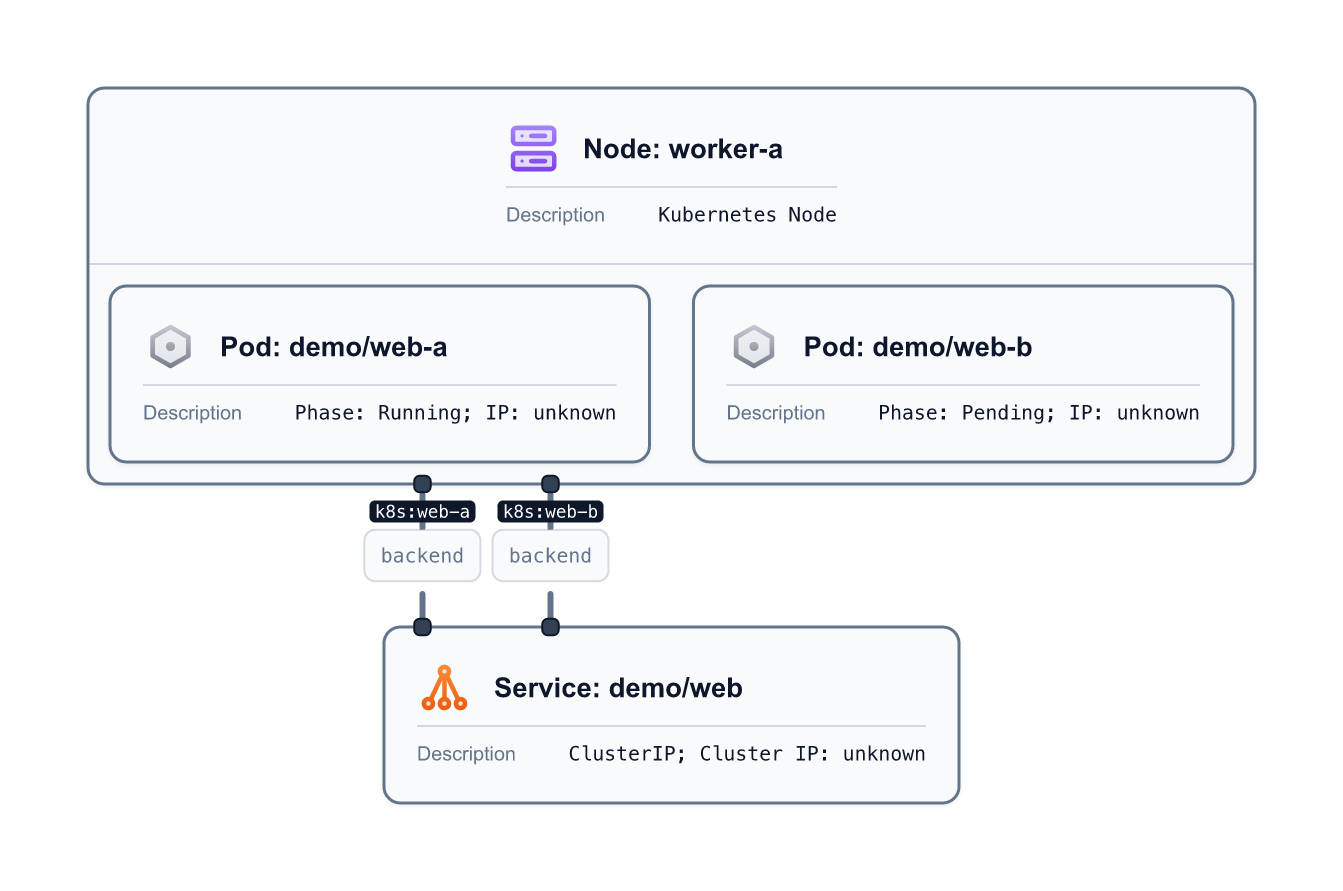
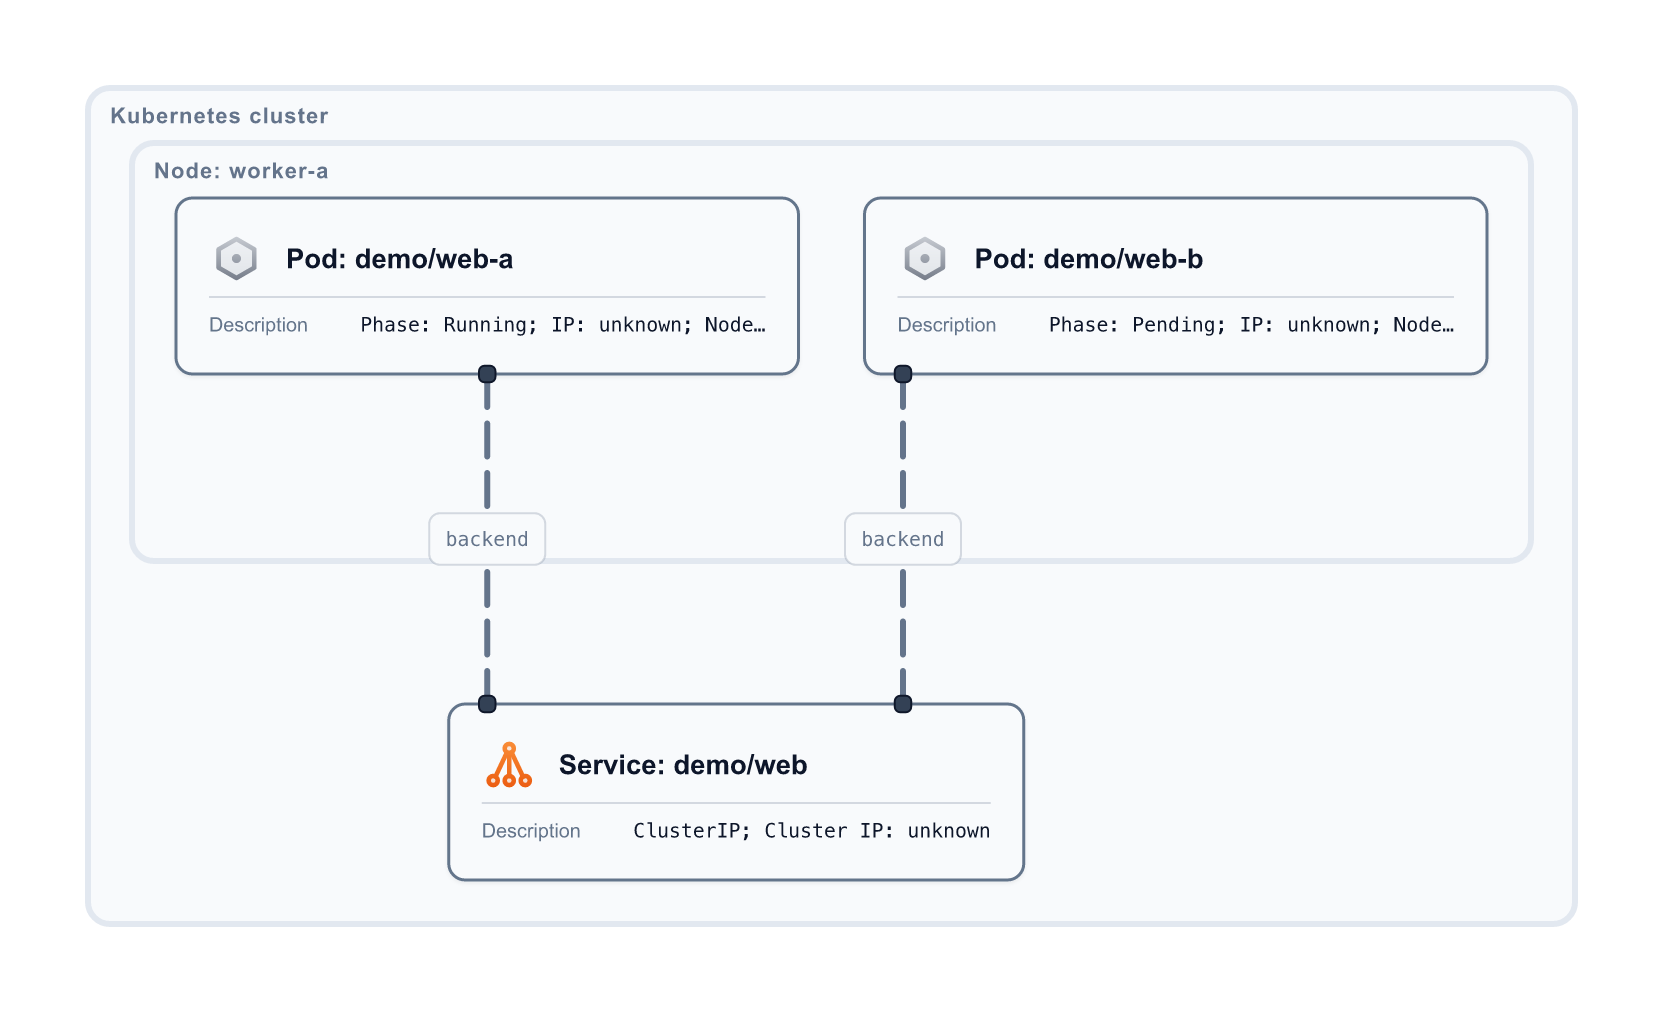
Draw Kubernetes cluster frames with direct Pod backend links

Changed region(s): [[0.0305, 0.0606, 0.9464, 0.9394], [0.6411, 0.4545, 0.8853, 0.4848], [0.0305, 0.8788, 0.0611, 0.9091]]

diff --git a/libs/plugins/kubernetes/src/topology.test.ts b/libs/plugins/kubernetes/src/topology.test.ts
@@ -1,4 +1,4 @@
-import { checkNetwork, drawNetwork, readNetworkModel } from '@shumoku/core'
+import { checkNetwork, drawNetwork, readNetworkModel, resolveNetwork } from '@shumoku/core'
 import { validateTopologyIdentityContract } from '@shumoku/core/plugin-kit'
 import { describe, expect, it } from 'vitest'
 import { testMetrics } from '../../../@shumoku/core/src/drawing/testing/support.js'
@@ -38,13 +38,13 @@ function fixture(): Inventory {
   }
 }
 describe('Kubernetes topology', () => {
-  it('represents hosting separately from virtual backend links and satisfies identity contracts', () => {
+  it('groups Pods by Node within the cluster and satisfies identity contracts', () => {
     const result = buildTopology(fixture())
     expect(checkNetwork(result.network)).toEqual([])
     expect(() =>
       drawNetwork(readNetworkModel(JSON.stringify(result.network)), { metrics: () => testMetrics }),
     ).not.toThrow()
-    expect(result.network.nodes.find((node) => node.id === 'k8s:pod-uid')?.host).toBe(
+    expect(result.network.nodes.find((node) => node.id === 'k8s:pod-uid')?.group).toBe(
       'k8s:node-uid',
     )
     expect(result.network.links).toHaveLength(1)
@@ -61,6 +61,50 @@ describe('Kubernetes topology', () => {
       nodesMissingIdentity: [],
       portsMissingName: [],
     })
+  })
+  it('draws backend wires to Pod cards after source resolution, across Node frames', () => {
+    const inventory = fixture()
+    inventory.nodes.push(resource('node-b', 'worker-b'))
+    inventory.pods.push({ ...resource('pod-b', 'web-2', 'demo'), spec: { nodeName: 'worker-b' } })
+    inventory.slices[0]?.endpoints?.push({ targetRef: { kind: 'Pod', uid: 'pod-b' } })
+    const source = buildTopology(inventory)
+    const { model } = resolveNetwork({ network: { nodes: [], links: [] } }, [
+      { sourceId: 'test-kubernetes', capturedAt: 1, status: 'ok', source },
+    ])
+    const scene = drawNetwork(model, { metrics: () => testMetrics })
+    expect(scene.groups.map(({ group }) => group.label).sort()).toEqual([
+      'Kubernetes cluster',
+      'Node: worker-a',
+      'Node: worker-b',
+    ])
+    expect(scene.wires).toHaveLength(2)
+    for (const wire of scene.wires) {
+      for (const endpoint of [wire.link.from, wire.link.to]) {
+        const card = scene.nodes.find(({ node }) => node.id === endpoint.node)
+        if (!card) throw new Error('Backend endpoint must be a visible Pod or Service card')
+        expect(card.node.label).toMatch(/^(Pod|Service):/)
+        const { x, y, width, height } = card.box
+        expect(
+          wire.points.some(
+            (point) =>
+              ((point.x === x || point.x === x + width) && point.y >= y && point.y <= y + height) ||
+              ((point.y === y || point.y === y + height) && point.x >= x && point.x <= x + width),
+          ),
+        ).toBe(true)
+      }
+    }
+    expect(scene.ports?.some((port) => port.label?.startsWith('discovered:'))).toBe(false)
+  })
+  it('keeps unscheduled and namespace-only Pods in the cluster without inventing Nodes', () => {
+    const inventory = fixture()
+    inventory.nodes = []
+    inventory.pods.push(resource('pending', 'pending', 'demo'))
+    const result = buildTopology(inventory)
+    expect(result.network.groups).toEqual([
+      { id: 'k8s:cluster', label: 'Kubernetes cluster', groups: [] },
+    ])
+    expect(result.network.nodes.every((node) => node.group === 'k8s:cluster')).toBe(true)
+    expect(result.network.links).toHaveLength(1)
   })
   it('deduplicates IPv4/IPv6 slices and preserves not-ready/terminating observations', () => {
     const inventory = fixture()

diff --git a/libs/plugins/kubernetes/src/topology.ts b/libs/plugins/kubernetes/src/topology.ts
@@ -10,28 +10,41 @@ export function buildTopology(inventory: Inventory): SourceNetwork {
     string,
     NonNullable<NonNullable<SourceNetwork['observation']>['nodes']>[string]
   > = {}
+  const clusterId = 'k8s:cluster'
   const nodeNames = new Map(inventory.nodes.map((node) => [node.metadata.name, id(node)]))
+  // Placement frames keep backend endpoints on the Pod cards. The generic host
+  // layout otherwise projects guest links onto the host's outer edge.
+  const groups: inputModel.Group[] = [
+    {
+      id: clusterId,
+      label: 'Kubernetes cluster',
+      groups: inventory.nodes.map((node) => ({
+        id: id(node),
+        label: `Node: ${node.metadata.name}`,
+      })),
+    },
+  ]
   const podsByUid = new Map(inventory.pods.map((pod) => [pod.metadata.uid, pod]))
   const services = new Map(inventory.services.map((service) => [key(service), service]))
-  const addNode = (resource: Resource, type: string, description: string, host?: string) => {
+  const addNode = (resource: Resource, type: string, description: string, group = clusterId) => {
     const namespace = resource.metadata.namespace
     nodes.push({
       id: id(resource),
       label: `${type}: ${namespace ? `${namespace}/` : ''}${resource.metadata.name}`,
-      type: type === 'Node' ? 'server' : type === 'Service' ? 'load-balancer' : 'container',
+      type: type === 'Service' ? 'load-balancer' : 'container',
       description,
-      ...(host ? { host } : {}),
+      group,
     })
     // IPs can be reused and hostNetwork Pods share their Node's IP. Do not use them
     // as device identity: the API object's UID distinguishes replacement workloads.
     observedNodes[id(resource)] = { vendorIds: { 'kubernetes-uid': resource.metadata.uid } }
   }
-  for (const node of inventory.nodes) addNode(node, 'Node', 'Kubernetes Node')
   for (const pod of inventory.pods) {
     addNode(
       pod,
       'Pod',
-      `Phase: ${pod.status?.phase ?? 'unknown'}; IP: ${pod.status?.podIP ?? 'unknown'}`,
+      `Phase: ${pod.status?.phase ?? 'unknown'}; IP: ${pod.status?.podIP ?? 'unknown'}` +
+        `; Node: ${pod.spec?.nodeName ?? 'unscheduled'}`,
       pod.spec?.nodeName ? nodeNames.get(pod.spec.nodeName) : undefined,
     )
   }
@@ -84,7 +97,8 @@ export function buildTopology(inventory: Inventory): SourceNetwork {
     }))
   return {
     network: {
-      name: 'Kubernetes configuration',
+      name: 'Kubernetes cluster',
+      groups,
       description:
         'Node placement and configured Service backends; not traffic flows or reachability.',
       nodes: nodes.sort((a, b) => a.id.localeCompare(b.id)),

diff --git a/libs/plugins/kubernetes/README.md b/libs/plugins/kubernetes/README.md
@@ -2,7 +2,10 @@
 
 The bundled `kubernetes` data source reads the API of the cluster where Shumoku
 runs. It shows Nodes, Pods, Services and Service backend membership from
-EndpointSlices. Pod placement uses the model's hosting relationship. Links are
+EndpointSlices. The diagram uses an outer **Kubernetes cluster** frame and nested **Node** frames
+for Pod placement. Services sit directly inside the cluster, and backend links
+reach individual Pod cards across the Node frames. Nodes are placement frames,
+not separate device cards; their UIDs identify the frames. Links are
 virtual, labelled **backend**, and do not claim that traffic has
 flowed or that a NetworkPolicy permits a connection. Endpoint readiness and
 termination conditions are retained in link observation metadata; no bandwidth or
@@ -105,6 +108,9 @@ References: [API access from a Pod](https://kubernetes.io/docs/tasks/run-applica
 ## Example
 
 Synthetic fixture: a Service with two backend Pods on one Node. Namespace is included
-in each resource label; Node frames show scheduling rather than namespace grouping.
+in each resource label; the cluster encloses Node frames and Services, with backend
+lines terminating on the individual Pods. Pods whose Nodes are not in the inventory
+(including namespace-only mode), and unscheduled Pods, stay at cluster level; their
+descriptions retain the reported Node name or say unscheduled.
 
 ![Synthetic Kubernetes topology](example.png)
